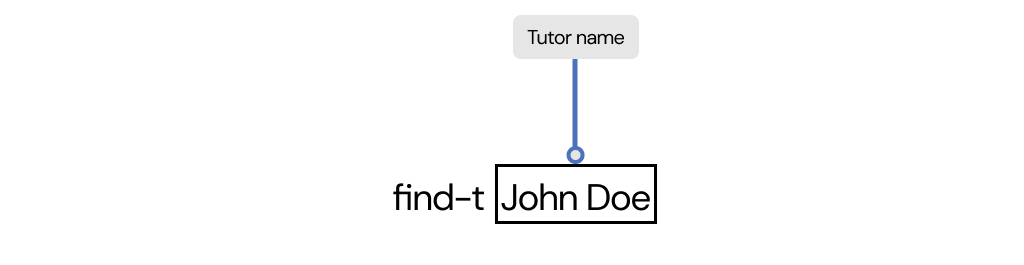
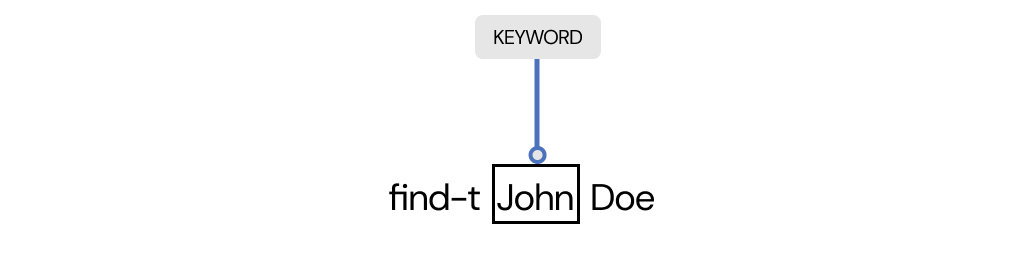
Update UG

Changed region(s): [[0.4375, 0.0302, 0.6562, 0.634], [0.375, 0.634, 0.6562, 0.8453]]

diff --git a/docs/UserGuide.md b/docs/UserGuide.md
@@ -94,7 +94,7 @@ Welcome to TutorConnect! We are excited to get you started with a more efficient
 
 <div markdown="block" class="alert alert-info">
 
-**:information_source: Mac Users**<br>
+**:information_source: Mac users**<br>
 
 If you are a Mac user, you may encounter a warning that says
 the jar file cannot be opened because it is from an unidentified developer. To continue:
@@ -105,9 +105,9 @@ the jar file cannot be opened because it is from an unidentified developer. To c
 
 <div markdown="block" class="alert alert-warning">
 
-**:warning: Unable to Open jar file**<br>
+**:warning: Unable to open jar file**<br>
 
-Should the file fail to launch on click:
+If the jar file cannot launch on double-click:
 
 1. Open a command terminal (using [Windows](https://www.lifewire.com/open-command-prompt-in-a-folder-5185505) or [Mac](https://support.apple.com/en-sg/guide/terminal/trmlb20c7888/mac#:~:text=On%20your%20Mac%2C%20open%20a,window%3A%20Choose%20Open%20in%20Terminal.)) on the folder where `TutorConnect.jar` is. 
 2. Type the following command in the terminal: `java -jar TutorConnect.jar` and hit enter.
@@ -125,7 +125,7 @@ Below is a quick overview of the various components of our interface.
 | Component        | Description                                                                                | 
 |------------------|--------------------------------------------------------------------------------------------|
 | Command Box      | You will enter your [commands](#glossary) along with its input here.                       |
-| Menu Bar         | Contains dropdown menu options for the application.                                        |
+| Menu Bar         | Contains relevant buttons for the application.                                             |
 | Result Display   | Displays the results of your commands.<br/>Any error messages will also be displayed here. | 
 | Tutor Details    | Contains information related to the tutor like name, phone number etc.                     |
 | Schedule Details | Contains information related to the schedule like assigned tutor, start time etc.          |
@@ -158,20 +158,21 @@ Click on any of these below to jump to the respective sections of the guide!
 When you first launch TutorConnect, you will notice that it comes preloaded with sample data for you to experiment with.
 You may use the sample data to familiarise yourself with the various [features](#features) that TutorConnect provides.
 
-Alternatively, if you're ready to start with your own data, you can easily remove all the sample entries:
-1. Simply type into the Command Box: `clear`
+Once you're ready to start using TutorConnect for your tuition centre, you can easily remove all the sample data:
+1. Type `clear` into the command box
 2. Hit enter
 
-Now it's time to start adding your tutors to TutorConnect!
+Yay! Now it's time to get started with TutorConnect!
 
 ### Adding your first tutor
 
 ![add-t](images/tutorial/add-t.png)
 
-Let's say you have a tutor named **John Doe**, he has provided you with his phone number: **9123 4567** and his email address: **johndoe@example.com**.
+Let's say you have a tutor named **John Doe**. He has provided you with his phone number: **9123 4567** and his 
+email address: **johndoe@example.com**.
 
 Here is how you would use the [**add-t**](#adding-a-tutor-add-t) command to add John Doe to TutorConnect:
-1. Simply type into the Command Box: `add-t n/John Doe p/91234567 e/johnd@example.com`
+1. Simply type `add-t n/John Doe p/91234567 e/johnd@example.com` into the command box
 2. Hit enter
 3. Voila! John Doe is now in TutorConnect
 
@@ -188,7 +189,7 @@ Let's assign the class to **John Doe**.
 Here is how to use the [**add-s**](#adding-a-schedule-add-s) command to assign the schedule to John Doe:
 1. Get the **TUTOR_INDEX** of the tutor you wish to assign the schedule to
    ![tutor-index](images/tutorial/tutor-index.png)
-2. Simply type into the Command Box: `add-s 1 st/2023-10-01T09:00 et/2023-10-01T11:00`
+2. Simply type `add-s 1 st/2023-10-01T09:00 et/2023-10-01T11:00` into the command box
 3. Hit enter
 4. Tada! John Doe now has a schedule on **1 October 2023** from **9AM to 11AM**
 
@@ -201,11 +202,14 @@ Now that class is over, it is time to mark the schedule as completed!
 Here is how to use the [**mark**](#marking-a-schedule-mark) command to mark the schedule as completed:
 1. Get the **SCHEDULE_INDEX** of the schedule you wish to mark as completed
    ![schedule-index](images/tutorial/schedule-index.png)
-2. Simply type into the Command Box: `mark 1 m/1`
+2. Simply type `mark 1 m/1` into the command box
 3. Hit enter
 4. Tada! The schedule is now marked as completed
 
-**Congratulations!** You have successfully added your first tutor and schedule, and also completed a schedule in TutorConnect. We hope that this tutorial has helped guide you through the basic features of TutorConnect. Please refer to the [**Features Section**](#features) to see what else TutorConnect can do. Alternatively visit the [**FAQ**](#faq) to view the frequently asked questions.
+**Congratulations!** You have successfully added your first tutor and schedule, and also marked a schedule as 
+completed in TutorConnect. We hope that this tutorial has helped guide you through the basic features of 
+TutorConnect. Please refer to the [**Features Section**](#features) to see what else TutorConnect can do. 
+Alternatively, visit the [**FAQ Section**](#faq) to view some frequently asked questions.
 
 [Back To Top](#table-of-contents)
 
@@ -257,6 +261,7 @@ Amazing! Tutor John Doe has now been added to the bottom of the displayed list.
 
 **:information_source: Tutor's name**<br>
 
+Take note of the following constraints regarding tutor's names!
 * Tutor's name can only include letters and numbers.
 * Tutor's name is case-sensitive. E.g., `John` and `john` are considered different names!
 
@@ -290,7 +295,7 @@ Edits an existing tutor found in TutorConnect.
 
 **Scenario**
 
-Imagine that tutor John Doe has changed his phone number to **87654321**.\
+Imagine that tutor John Doe has changed his phone number to **87654321**.
 As a tuition centre coordinator, you want to have the most up-to-date information on your tutors.  
 
 Let's use the edit tutor command to update his phone number!
@@ -371,7 +376,7 @@ Anything you type after `list-t` will be ignored.
 
 #### Locating tutors by name: `find-t`
 
-Find tutors whose names contain any of the given keywords.
+Finds tutors whose names contain any of the given keywords.
 
 ##### :star: First time users
 {:.no_toc}
@@ -381,7 +386,7 @@ Find tutors whose names contain any of the given keywords.
 You would like to contact tutor **John Doe**, but you can't remember his phone number. You try to look for him in the 
 list of tutors but the list has gotten far too long, and you can't find him.
 
-Fret not! The find tutor command is here to save the day.
+If this has happened to you before, Fret not! The find tutor command is here to save the day.
 
 **Follow these steps**
 
@@ -474,7 +479,7 @@ Adds a schedule to a specified tutor.
 
 You have a new upcoming class on **1 December 2023** from **9AM to 11AM**. 
 
-Let's schedule this class to the tutor **Bernice Yu**.
+Let's assign this class to the tutor **Bernice Yu**.
 
 **Follow these steps**
 
@@ -569,7 +574,7 @@ You can also refer to [input information](#input-examples) for details about val
 
 #### Listing all schedules: `list-s`
 
-Displays a list of all schedules in TutorConnect. List can be filtered by tutors using the `TUTOR_INDEX` provided in the tutor list, or by `COMPLETED` or `MISSED` status.
+Displays a list of all schedules in TutorConnect. List can be filtered by tutors assigned or status.
 
 ##### :star: First time users
 {:.no_toc}
@@ -578,35 +583,31 @@ Displays a list of all schedules in TutorConnect. List can be filtered by tutors
 
 You wish to view schedules assigned to tutor **Irfan Ibrahim** that have been marked as `COMPLETED`.
 
-The list schedule function is here for that!
+Use list schedule function!
 
 **Follow these steps**
 
-1. On the left panel that shows the list of tutors, check the `TUTOR_INDEX` of Irfan Ibrahim, in this case, his number is 2.
-2. Type in `list-s 2 m/1` where `m/1` represents schedules marked as `COMPLETED` and press enter.
-3. If you wish to view the schedules that are marked as `MISSED` only, you can also enter `list-s m/0` where `m/0` represents schedules marked as `MISSED` and press enter.
+1. On the left panel that shows the list of tutors, check the `TUTOR_INDEX` of Irfan Ibrahim. Here, the index is 2.
+2. Type in `list-s 2 m/1` and press enter.
 
 **What you can expect to see**
 
-Tada! For step 2, the schedule list has now been updated to show schedules from tutor Irfan Ibrahim that are marked as `COMPLETED`.
+Tada! For step 2, the schedule list has now been updated to show schedules assigned to tutor Irfan Ibrahim that are 
+marked as `COMPLETED`.
 
 ![list schedule tutor completed](images/list-schedules/list-s-tutor-completed.png)
-
-
-For step 3, the schedule list has been updated to show schedules that are marked as `MISSED`.
-
-![list schedule missed](images/list-schedules/list-s-missed.png)
 
 <div markdown="block" class="alert alert-success">
 
 **:bulb: Tip**<br>
 
-`list-s` command is equipped with flexible options to view a list of schedules that covers the following scenarios:
+Good news! `list-s` command is equipped with various options to view a list of schedules that covers the following 
+scenarios:
 - `list-s` : To show all schedules.
-- `list-s 1` : To show schedules by tutor that associates with `TUTOR_INDEX` 1.
-- `list-s m/0` : To show schedules marked as `MISSED`.
-- `list-s m/1` : To show schedules marked as `COMPLETED`.
-- `list-s 1 m/0` : To show schedules by `TUTOR_INDEX` 1 marked as `MISSED`.
+- `list-s TUTOR_INDEX` : To show schedules assigned to the tutor with index `TUTOR_INDEX`.
+- `list-s m/0` : To show all schedules marked as `MISSED`.
+- `list-s m/1` : To show all schedules marked as `COMPLETED`.
+- `list-s TUTOR_INDEX m/0` : To show schedules assigned to the tutor with index `TUTOR_INDEX` marked as `MISSED`.
 
 </div>
 
@@ -617,11 +618,12 @@ For step 3, the schedule list has been updated to show schedules that are marked
 
 ![list schedule command](images/list-schedules/list-s-syntax.png)
 
-<div markdown="block" class="alert alert-warning">
+<div markdown="block" class="alert alert-info">
 
-**:warning: Warning**<br>
+**:warning: Optional inputs**<br>
 
-`TUTOR_INDEX` and `m/` are optional fields to add as per type of usage. However an error will still occur if invalid values are passed into these fields.
+`TUTOR_INDEX` and `m/` are optional fields. You don't need to include them. If you do, make sure that the 
+input is valid!
 
 </div>
 
@@ -633,9 +635,8 @@ Here is a list of the error messages you may encounter, when the command is ente
 |--------------------------------------------------------------------------|----------------------------------------------------------------|
 | `Invalid command format!`                                                | `TUTOR_INDEX` is not a valid number.                           |
 | `The person index provided is invalid`                                   | `TUTOR_INDEX` entered is not in the range of number of tutors. |
-| `Status has to be either MISSED (m/0) or COMPLETED (m/1)`                | Invalid value of `/m` was entered.                             |
+| `Status has to be either MISSED (m/0) or COMPLETED (m/1)`                | Schedule status entered is not 0 or 1.                         |
 | `Multiple values specified for the following single-valued field(s): m/` | More than 1 `m/` was given in the command.                     |
-
 
 
 You can also refer to [input information](#input-examples) for details about valid inputs.
@@ -644,14 +645,14 @@ You can also refer to [input information](#input-examples) for details about val
 
 #### Locating schedules by name: `find-s`
 
-Find schedules whose tutor's names contain any of the given keywords.
+Finds schedules assigned to tutors whose names contain any of the given keywords.
 
 ##### :star: First time users
 {:.no_toc}
 
 **Scenario**
 
-You wish to view the list of schedules from a tutor named **Bernice**. But unfortunately, you forgot what's her last name.
+You wish to view the list of schedules from a tutor named **Bernice**. Unfortunately, you forgot what her last name is.
 
 The find schedule function is here for that!
 
@@ -661,7 +662,7 @@ The find schedule function is here for that!
 
 **What you can expect to see**
 
-Tada! The schedule list has now been updated to show schedules from tutor that contains the name "Bernice".
+Tada! The schedule list has now been updated to show schedules assign to tutors whose names contain the word "Bernice".
 
 ![find schedule tutor](images/find-schedules/find-s.png)
 
@@ -700,7 +701,7 @@ Sets the status of a schedule in TutorConnect.
 
 A class has ended and hence the schedule representing that class should be now marked as COMPLETED.
 
-Fret not as you can do just that with the mark command.
+Fret not, as you can do just that with the mark command.
 
 **Follow these steps**
 
@@ -725,9 +726,9 @@ Yay! The schedule has been marked as COMPLETED.
 
 **:information_source: Schedule status**<br>
 
-* There are only two types of Schedule status: MISSED or COMPLETED.
-* To set the status of the specified schedule to MISSED, input `m/0` as 0 indicates the MISSED status.
-* To set the status of the specified schedule to COMPLETED, input `m/1` as 1 indicates the COMPLETED status.
+* There are only two types of schedule status: MISSED or COMPLETED.
+* To set the status of the specified schedule to MISSED, use `m/0` as 0 indicates the MISSED status.
+* To set the status of the specified schedule to COMPLETED, use `m/1` as 1 indicates the COMPLETED status.
 * Any inputs other than 0 or 1 will result in an invalid status message displayed.
 
 </div>
@@ -736,11 +737,12 @@ Yay! The schedule has been marked as COMPLETED.
 
 Here is a list of the error messages you may encounter, when the command is entered incorrectly:
 
-| Error Message                                             | Reason                                                             |
-|-----------------------------------------------------------|--------------------------------------------------------------------|
-| `Invalid command format!`                                 | Invalid or missing SCHEDULE_INDEX or missing schedule status.      |
-| `The schedule index provided is invalid`                  | SCHEDULE_INDEX entered is not in the range of number of schedules. |
-| `Status has to be either MISSED (m/0) or COMPLETED (m/1)` | Schedule status entered is not 0 or 1.                             |
+| Error Message                                                            | Reason                                                             |
+|--------------------------------------------------------------------------|--------------------------------------------------------------------|
+| `Invalid command format!`                                                | Invalid or missing SCHEDULE_INDEX or missing schedule status.      |
+| `The schedule index provided is invalid`                                 | SCHEDULE_INDEX entered is not in the range of number of schedules. |
+| `Status has to be either MISSED (m/0) or COMPLETED (m/1)`                | Schedule status entered is not 0 or 1.                             |
+| `Multiple values specified for the following single-valued field(s): m/` | More than 1 `m/` was given in the command.                         |
 
 You can also refer to [input information](#input-examples) for details about valid inputs.
 
@@ -755,10 +757,10 @@ Removes the status of a schedule.
 
 **Scenario**
 
-You have accidentally marked the wrong schedule to be COMPLETED.\
+You have accidentally marked the wrong schedule to be COMPLETED.
 The class for that schedule has yet to occur so its status should be left empty.
 
-Don't worry as you can do just that with the unmark command.
+Don't worry, as you can do just that with the `unmark` command.
 
 **Follow these steps**
 
@@ -827,10 +829,10 @@ Well done! You have deleted the schedule assigned to **Bernice Yu**.
 
 Here is a list of the error messages you may encounter, when the command is entered incorrectly:
 
-| Error Message                            | Reason                                                       |
-|------------------------------------------|--------------------------------------------------------------|
-| `Invalid command format!`                | Invalid or missing `SCHEDULE_INDEX`.                           |
-| `The schedule index provided is invalid` | `SCHEDULE_INDEX` entered is not in the range of number of tutors. |
+| Error Message                            | Reason                                                          |
+|------------------------------------------|-----------------------------------------------------------------|
+| `Invalid command format!`                | Invalid or missing SCHEDULE_INDEX.                              |
+| `The schedule index provided is invalid` | SCHEDULE_INDEX entered is not in the range of number of tutors. |
 
 You can also refer to [input information](#input-examples) for details about valid inputs.
 
@@ -863,7 +865,7 @@ Woah look at that! The schedules are now being displayed in a calendar form.
 
 **:bulb: Worried about having too many schedules to view?**<br>
 * The calendar can show schedules for selected tutors only!
-1. Simply use [`find-t`](#locating-tutors-by-name-find-t) to select the tutors first (e.g. `find-t John` to select all
+1. Simply use [`find-t`](#locating-tutors-by-name-find-t) to show the tutors first (e.g. `find-t John` to show all
   tutors with the name John).
 2. Now, just use the [`show`](#viewing-calendar-show) command to view their schedules in calendar view on a given date. 
    It's that simple!
@@ -891,7 +893,7 @@ This command might seem complicated, but it is easy to use with only 1 possible 
 
 <div markdown="block" class="alert alert-warning">
 
-**:warning: Calendar Limitations**<br>
+**:warning: Calendar limitations**<br>
 * Schedules with very short duration will be truncated (only the schedule's index will be displayed).
 * Using any other commands will hide the calendar view. Use the `show` command to view calendar again. 
 
@@ -990,13 +992,13 @@ As an experienced user, you should be aware of the dangers of the `clear` comman
 
 [Back To Top](#table-of-contents)
 
-#### Help: `help`
+#### Opening the help window: `help`
 
 Opens a window with instructions for getting help.
 
 **Scenario**
 
-Unsure on how to use a command or encounter an unknown error?
+Unsure on how to use a command? Encountered an unknown error?
 
 Get help from within the app by using the help command!
 
@@ -1007,7 +1009,7 @@ Type in `help` and press enter.
 **What you can expect to see**
 
 Is that a bird? Is that a plane?
-Nope it's the help window!
+Nope, it's the help window!
 
 ![help window](images/helpWindow.png)
 
@@ -1015,7 +1017,7 @@ Nope it's the help window!
 
 **:bulb: Tip**<br>
 
-The help window can also be accessed by the button above the command box!
+The help window can also be accessed by the button in the menu bar (above the command box)!
 
 </div>
 
@@ -1028,7 +1030,7 @@ Exits TutorConnect.
 
 **Scenario**
 
-Are you done using TutorConnect and want to stop the program?
+Done using TutorConnect? Quit the app!
 
 **Follow these steps**
 
@@ -1085,12 +1087,11 @@ use is sure to solve your scheduling needs.
 ### Definitions
 Here are some descriptions of the words you might come across in the User Guide:
 
-| Term                       | Definition                                                                                                                                                                                                                                                 |
-|----------------------------|------------------------------------------------------------------------------------------------------------------------------------------------------------------------------------------------------------------------------------------------------------|
-| Command                    | A command is an instruction given to the application to perform a specific action. For example, `list-t` is a command to list all tutors in the address book.                                                                                              |
-| GUI                        | GUI is a user interface that allows users to interact with the application using graphical elements like text fields, buttons, and menus.                                                                                                                  |
-| <span id="cli">CLI</span>  | CLI is a text-based user interface that allows users to interact with the application by typing commands.                                                                                                                                                  |
-
+| Term                       | Definition                                                                                                                                                     |
+|----------------------------|----------------------------------------------------------------------------------------------------------------------------------------------------------------|
+| <span id="cli">CLI</span>  | CLI is a text-based user interface that allows users to interact with the application by typing commands.                                                      |
+| GUI                        | GUI is a user interface that allows users to interact with the application using graphical elements like text fields, buttons, and menus.                      |
+| Command                    | A command is an instruction given to the application to perform a specific action. For example, `list-t` is a command to list all tutors in the address book.  |
 
 ### Input Examples
 
